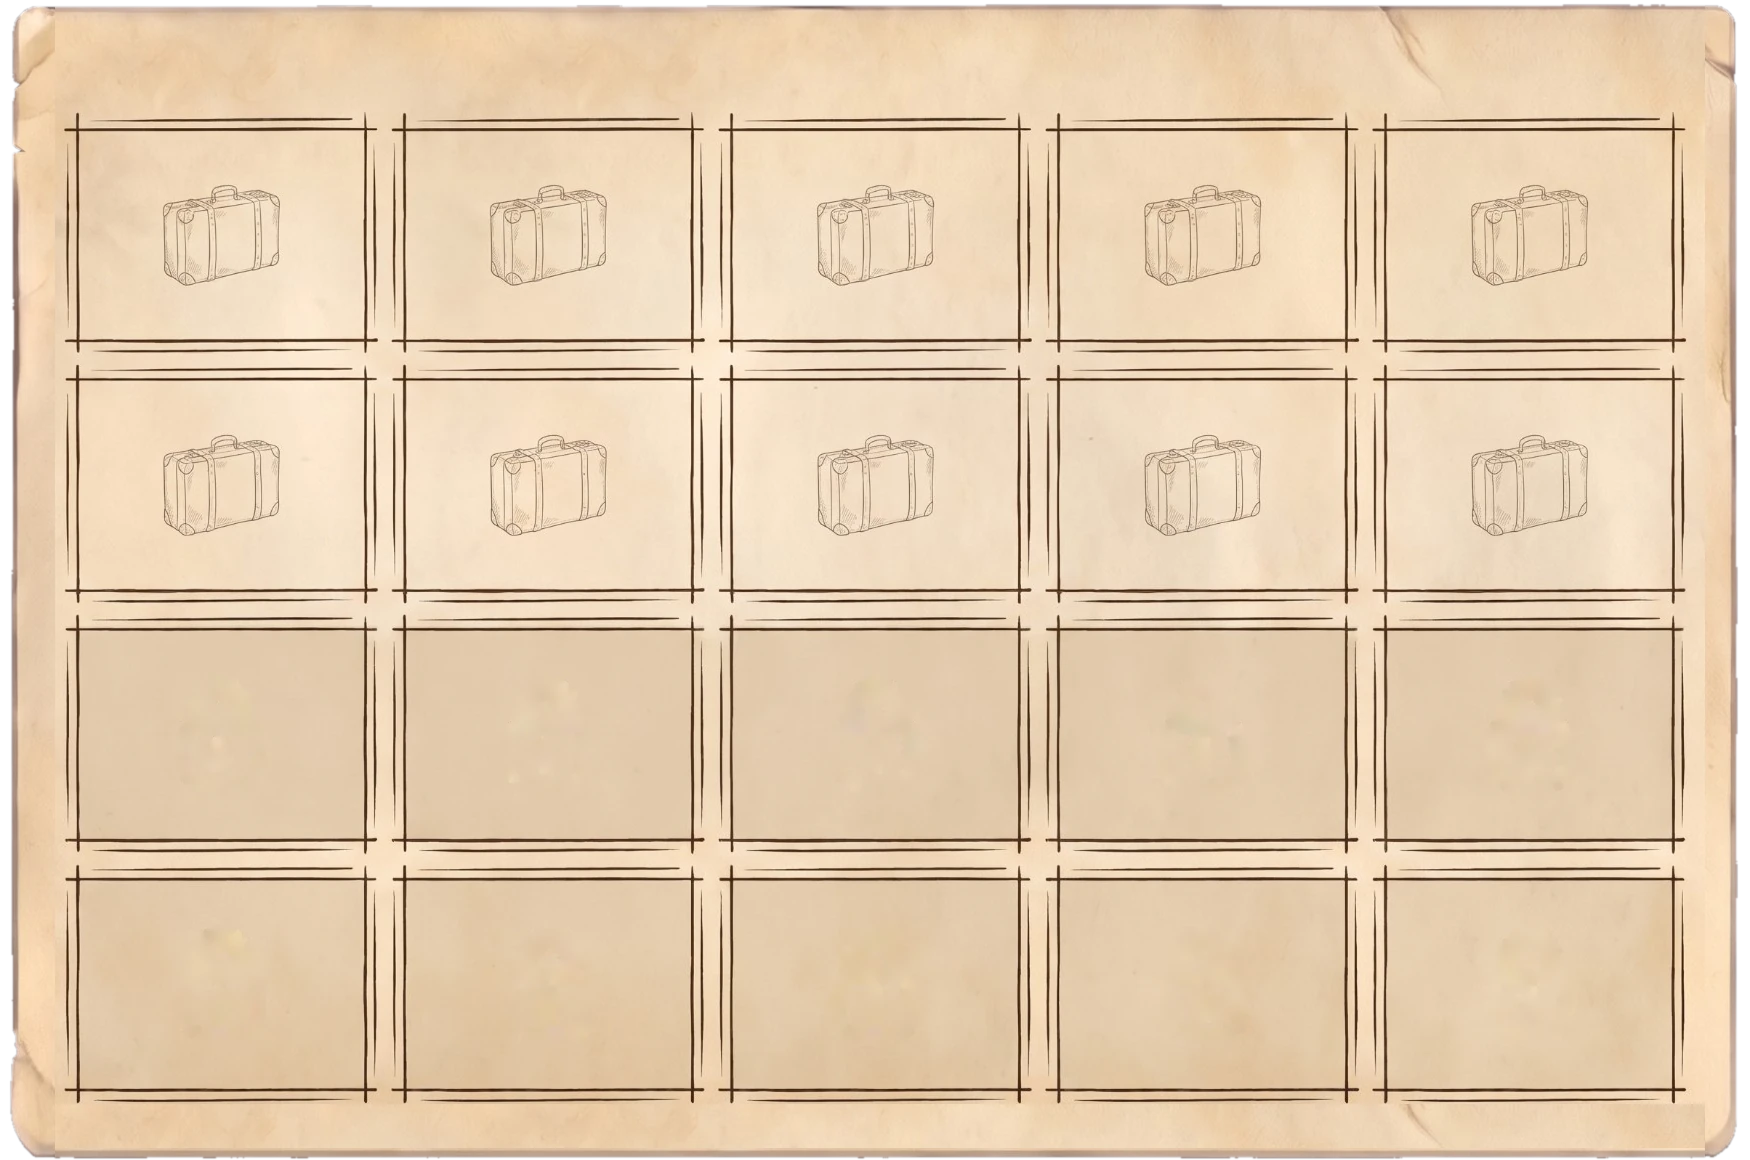
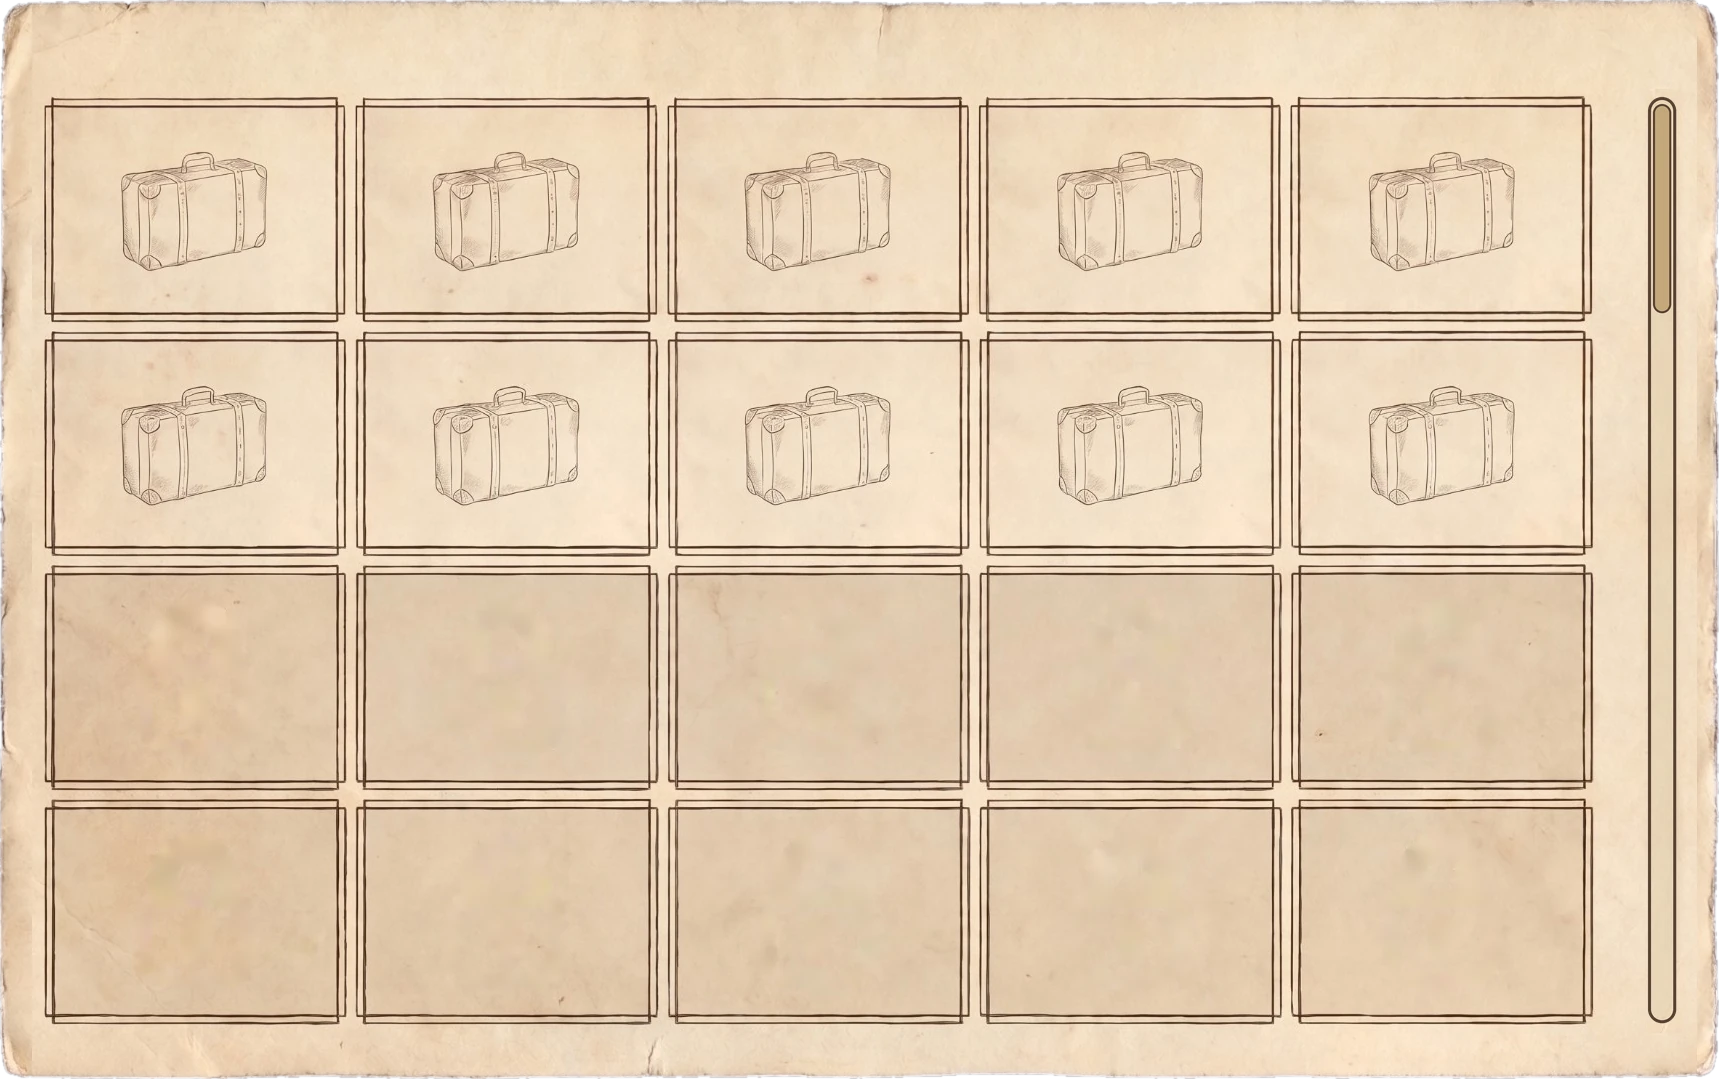
feat: Mala v2 com molduras coladas, barra de scroll fina e cadeado que abre no novo tamanho (R-UI-18)

Changed region(s): [[0.0, 0.0, 1.0, 1.0]]

diff --git a/src/web/style.css b/src/web/style.css
@@ -4515,18 +4515,18 @@ html[data-ui="v2"] #app[data-tab="perfil"] .stack { row-gap: 1.3rem; }
 /* ================================================================================================ */
 /* SEÇÃO C (MALA) COM A FOLHA DE 20 MOLDURAS (R-UI-18): malinha fraca nos vazios; cadeado fechado nos bloqueados, que abre ao passar o mouse */
 /* ================================================================================================ */
-html[data-ui="v2"] #app[data-tab="perfil"] .inventory-slots-grid { position: relative; isolation: isolate; box-sizing: border-box; aspect-ratio: 1750 / 1160; height: auto; padding: 2.94rem 1.65rem 1.44rem 1.7rem; background: none; border: 0; border-radius: 0; grid-template-columns: repeat(5, 1fr); grid-template-rows: repeat(4, 1fr); grid-auto-rows: auto; column-gap: 0.37rem; row-gap: 0.32rem; }
+html[data-ui="v2"] #app[data-tab="perfil"] .inventory-slots-grid { position: relative; isolation: isolate; box-sizing: border-box; aspect-ratio: 1719 / 1079; height: auto; padding: 2.6rem 3.36rem 1.42rem 1.29rem; background: none; border: 0; border-radius: 0; grid-template-columns: repeat(5, 1fr); grid-template-rows: repeat(4, 1fr); grid-auto-rows: auto; column-gap: 0.34rem; row-gap: 0.34rem; }
 html[data-ui="v2"] #app[data-tab="perfil"] .inventory-slots-grid::after { content: ""; position: absolute; inset: 0; z-index: -1; pointer-events: none; background: url("/assets/ficha/c-mala.webp") 0 0 / 100% 100% no-repeat; filter: drop-shadow(0 0.25rem 0.45rem rgba(0, 0, 0, 0.5)); }
-html[data-ui="v2"] #app[data-tab="perfil"] .inventory-slots-grid::before { position: absolute; top: 0.85rem; left: 1.7rem; grid-column: auto; padding: 0; border: 0; color: #3a2a14; }
+html[data-ui="v2"] #app[data-tab="perfil"] .inventory-slots-grid::before { position: absolute; top: 0.8rem; left: 1.35rem; grid-column: auto; padding: 0; border: 0; color: #3a2a14; }
 html[data-ui="v2"] #app[data-tab="perfil"] .inv-slot { position: relative; aspect-ratio: auto; height: auto; background: none; border: 0; border-radius: 0; outline: 0; padding: 0.4rem 0.45rem; box-shadow: none; }
 html[data-ui="v2"] #app[data-tab="perfil"] .inv-slot.empty::after { display: none; }
 /* item na Mala: um retalho de papel cobre a malinha desenhada */
 html[data-ui="v2"] #app[data-tab="perfil"] .inv-slot[data-inv-idx]::before { content: ""; position: absolute; inset: 6% 5.5%; background: #efe2c4; }
 html[data-ui="v2"] #app[data-tab="perfil"] .inv-slot[data-inv-idx] > * { position: relative; }
 /* cadeado fechado (desenhado em sprite) e, ao passar o mouse, o aberto */
-html[data-ui="v2"] #app[data-tab="perfil"] .inv-slot.locked { cursor: pointer; background: url("/assets/ficha/c-cadeado-fechado.webp") 50.2% 50.4% / 26.6% 47.48% no-repeat; }
+html[data-ui="v2"] #app[data-tab="perfil"] .inv-slot.locked { cursor: pointer; background: url("/assets/ficha/c-cadeado-fechado.webp") 49.7% 47.1% / 38.38% 68.47% no-repeat; }
 html[data-ui="v2"] #app[data-tab="perfil"] .inv-slot.locked .ico { display: none; }
-html[data-ui="v2"] #app[data-tab="perfil"] .inv-slot.locked::before { content: ""; position: absolute; left: 36.86%; top: 23.95%; width: 26.6%; height: 50%; background: url("/assets/ficha/c-cadeado-aberto.webp") 0 0 / 100% 100% no-repeat; opacity: 0; pointer-events: none; transform-origin: 50% 92%; }
+html[data-ui="v2"] #app[data-tab="perfil"] .inv-slot.locked::before { content: ""; position: absolute; left: 30.64%; top: 9.91%; width: 38.38%; height: 73.42%; background: url("/assets/ficha/c-cadeado-aberto.webp") 0 0 / 100% 100% no-repeat; opacity: 0; pointer-events: none; transform-origin: 50% 92%; }
 html[data-ui="v2"] #app[data-tab="perfil"] .inv-slot.locked:not(.locked-soon):hover, html[data-ui="v2"] #app[data-tab="perfil"] .inv-slot.locked:not(.locked-soon):focus-visible { background-image: none; outline: none; }
 html[data-ui="v2"] #app[data-tab="perfil"] .inv-slot.locked:not(.locked-soon):hover::before, html[data-ui="v2"] #app[data-tab="perfil"] .inv-slot.locked:not(.locked-soon):focus-visible::before { opacity: 1; filter: drop-shadow(0 0 0.35rem rgba(212, 175, 55, 0.9)); animation: lock-pop 0.35s ease-out; }
 @keyframes lock-pop { 0% { transform: scale(0.9) rotate(-4deg); } 60% { transform: scale(1.1) rotate(3deg); } 100% { transform: scale(1) rotate(0); } }

diff --git a/tests/unit/fichaNova.test.ts b/tests/unit/fichaNova.test.ts
@@ -223,9 +223,9 @@ describe('Ficha nova em teste (R-FICHA-ARTE-1)', () => {
 
   it('seção C (Mala) com a folha de 20 molduras e o cadeado que abre ao passar o mouse (R-UI-18)', () => {
     for (const n of ['c-mala', 'c-cadeado-fechado', 'c-cadeado-aberto']) expect(existsSync(`public/assets/ficha/${n}.webp`)).toBe(true);
-    expect(css).toMatch(/#app\[data-tab="perfil"\] \.inventory-slots-grid \{ position: relative; isolation: isolate; box-sizing: border-box; aspect-ratio: 1750 \/ 1160;/);
+    expect(css).toMatch(/#app\[data-tab="perfil"\] \.inventory-slots-grid \{ position: relative; isolation: isolate; box-sizing: border-box; aspect-ratio: 1719 \/ 1079;/);
     expect(css).toMatch(/\.inventory-slots-grid::after \{ content: ""; position: absolute; inset: 0; z-index: -1; pointer-events: none; background: url\("\/assets\/ficha\/c-mala\.webp"\)/);
-    expect(css).toMatch(/\.inv-slot\.locked::before \{ content: ""; position: absolute; left: 36\.86%; top: 23\.95%; width: 26\.6%; height: 50%; background: url\("\/assets\/ficha\/c-cadeado-aberto\.webp"\)/);
+    expect(css).toMatch(/\.inv-slot\.locked::before \{ content: ""; position: absolute; left: 30\.64%; top: 9\.91%; width: 38\.38%; height: 73\.42%; background: url\("\/assets\/ficha\/c-cadeado-aberto\.webp"\)/);
     expect(css).toMatch(/\.inv-slot\.empty::after \{ display: none; \}/);
     expect(css).toContain('@keyframes lock-pop');
   });

diff --git a/tools/secaoMala2_recorte.py b/tools/secaoMala2_recorte.py
@@ -1,0 +1,98 @@
+# Folha da Mala v2 (arte da IA, molduras coladas): tira os cadeados e a barra de scroll desenhada (o scroll e o cadeado viram peças em código),
+# corta margens laterais, fundo transparente, sprites dos cadeados (fechado e aberto). (R-UI-19)
+# Uso: python -I tools/secaoMala2_recorte.py        Entrada: docs/arte/secaoMala/v2.jpg
+import numpy as np
+from PIL import Image
+from scipy import ndimage as ndi
+from skimage.restoration import inpaint_biharmonic
+
+A = np.array(Image.open("docs/arte/secaoMala/v2.jpg").convert("RGB")).astype(float)
+H, W, _ = A.shape
+X0S = [197, 507, 818, 1130, 1442]
+FW = 297
+Y0S = [116, 350, 585, 820]
+FH = 222
+
+clean = A.copy()
+meta = None
+sprite_closed = None
+for r in (2, 3):
+    for c in range(5):
+        x0, y0 = X0S[c], Y0S[r]
+        cx, cy = x0 + FW // 2, y0 + FH // 2
+        tone = np.median(A[y0 + 20:y0 + 48, x0 + 20:x0 + FW - 20].reshape(-1, 3), axis=0)
+        reg = (slice(cy - 95, cy + 80), slice(cx - 80, cx + 80))
+        dark = ndi.binary_dilation(A[reg].mean(axis=2) < tone.mean() - 40, iterations=7)
+        if r == 2 and c == 2:
+            # sprite do cadeado fechado (o do meio da 1ª fileira de cadeados), com a tinta como alfa
+            sub = A[reg]
+            alpha = np.clip((tone.mean() - sub.mean(axis=2)) / (tone.mean() - 55), 0, 1)
+            alpha[alpha < 0.08] = 0
+            ys, xs = np.where(alpha > 0.15)
+            ya, yb, xa, xb = ys.min() - 3, ys.max() + 4, xs.min() - 3, xs.max() + 4
+            ink = np.array([0.26, 0.19, 0.14]) * 255
+            rgba = np.dstack([np.broadcast_to(ink, sub.shape[:2] + (3,)), alpha * 255])[ya:yb, xa:xb].astype(np.uint8)
+            sprite_closed = Image.fromarray(rgba, "RGBA")
+            px0, py0 = cx - 80 + xa, cy - 95 + ya
+            meta = ((px0 - x0) / FW * 100, (py0 - y0) / FH * 100, (xb - xa) / FW * 100, (yb - ya) / FH * 100, py0 + (yb - ya))
+        clean[reg] = inpaint_biharmonic(clean[reg] / 255.0, dark, channel_axis=-1) * 255.0
+
+sprite_closed.save("public/assets/ficha/c-cadeado-fechado.webp", "WEBP", quality=92, method=6)
+# cadeado aberto aprovado (do meio da 1ª fileira de cadeados da 1ª versão), escalado para o corpo do novo cadeado
+old_closed = Image.open("docs/arte/secaoMala/sprite_fechado_v1.png")
+old_open = Image.open("docs/arte/secaoMala/sprite_aberto_v1.png")
+k = sprite_closed.width / old_closed.width
+op = old_open.resize((round(old_open.width * k), round(old_open.height * k)), Image.LANCZOS)
+op.save("public/assets/ficha/c-cadeado-aberto.webp", "WEBP", quality=92, method=6)
+print("sprite fechado", sprite_closed.size, "aberto", op.size, "escala", round(k, 3))
+mx, my, mw, mh, base = meta
+ox = mx
+oy = (base - op.height - Y0S[2]) / FH * 100
+print("fechado: left %.2f%% top %.2f%% w %.2f%% h %.2f%%" % (mx, my, mw, mh))
+print("aberto : left %.2f%% top %.2f%% w %.2f%% h %.2f%%" % (ox, oy, op.width / FW * 100, op.height / FH * 100))
+
+# barra de scroll desenhada pela IA: some; copia papel liso da margem direita
+rx0, rx1, ry0, ry1 = 1786, 1834, 106, 1050
+w = rx1 - rx0
+strip = clean[ry0:ry1, 1856:1856 + w]
+ramp = np.minimum(np.minimum(np.arange(w), w - 1 - np.arange(w)) / 8.0, 1)[None, :, None]
+clean[ry0:ry1, rx0:rx1] = strip * ramp + clean[ry0:ry1, rx0:rx1] * (1 - ramp)
+
+# barra de scroll nova: trilho fino e reto, com o mesmo traço das molduras e uma alça no topo (a alça é só desenho por enquanto)
+from PIL import ImageDraw
+SS = 4
+lay = Image.new("RGBA", ((rx1 - rx0) * SS, (ry1 - ry0) * SS), (0, 0, 0, 0))
+dr = ImageDraw.Draw(lay)
+inkc = (84, 62, 48, 255)
+tx0, tx1 = (1796 - rx0) * SS, (1824 - rx0) * SS
+ty0, ty1 = (114 - ry0) * SS, (1040 - ry0) * SS
+dr.rounded_rectangle([tx0, ty0, tx1, ty1], radius=14 * SS, outline=inkc, width=3 * SS, fill=(222, 204, 170, 120))
+hx0, hx1 = (1801 - rx0) * SS, (1819 - rx0) * SS
+dr.rounded_rectangle([hx0, (121 - ry0) * SS, hx1, (330 - ry0) * SS], radius=9 * SS, outline=inkc, width=2 * SS, fill=(196, 168, 122, 255))
+lay = lay.resize((rx1 - rx0, ry1 - ry0), Image.LANCZOS)
+base_img = Image.fromarray(np.clip(clean, 0, 255).astype(np.uint8)).convert("RGBA")
+base_img.alpha_composite(lay, (rx0, ry0))
+clean = np.array(base_img.convert("RGB")).astype(float)
+
+# margens laterais
+img = np.hstack([clean[:, :100], clean[:, 180:1845], clean[:, 1915:]])
+Lp = img.mean(axis=2)
+paper = ndi.binary_fill_holes(ndi.binary_opening(Lp > 70, iterations=2))
+lab, n = ndi.label(paper)
+paper = lab == (1 + int(np.argmax(ndi.sum(paper, lab, range(1, n + 1)))))
+paper = ndi.binary_erosion(paper, iterations=1)
+ys, xs = np.where(paper)
+cx0, cx1, cy0, cy1 = xs.min(), xs.max() + 1, ys.min(), ys.max() + 1
+alpha = np.clip(ndi.gaussian_filter(paper.astype(float), 0.8), 0, 1)
+rgba = np.dstack([np.clip(img, 0, 255).astype(np.uint8), (alpha * 255).astype(np.uint8)])[cy0:cy1, cx0:cx1]
+Image.fromarray(rgba, "RGBA").save("public/assets/ficha/c-mala.webp", "WEBP", quality=90, method=6)
+Image.fromarray(np.clip(img, 0, 255).astype(np.uint8)[cy0:cy1, cx0:cx1]).save("docs/arte/secaoMala/ajustada_v2.png")
+sw, sh = cx1 - cx0, cy1 - cy0
+print("folha", sw, sh, "proporção", round(sw / sh, 3))
+
+def nx(x):  # x original -> x% na folha nova
+    return ((x - 80 if x >= 180 else x) - cx0) / sw * 100
+
+for r in range(4):
+    print("linha", r + 1, "y %.2f%% h %.2f%%" % ((Y0S[r] - cy0) / sh * 100, FH / sh * 100), "colunas x%:", ["%.2f" % nx(x) for x in X0S], "w %.2f%%" % (FW / sw * 100))
+print("barra: x %.2f%% a %.2f%%, y %.2f%% a %.2f%%" % (nx(1795), nx(1825), (114 - cy0) / sh * 100, (1040 - cy0) / sh * 100))

diff --git a/docs/REGRAS_DO_JOGO.md b/docs/REGRAS_DO_JOGO.md
@@ -136,7 +136,7 @@ Observação: com 7 minutos por ponto, uma missão de 15 energia custa 1h45 de e
 | R-UI-15 | **Identidade visual da Ficha: "folhas"** | A identidade visual da Ficha é de **folhas de papel envelhecido** (não couro, não fichas/cards). A imagem escolhida (`docs/arte/folha_original.jpg`) é **só a referência de identidade**: **não é o fundo da Ficha**. A arte final da Ficha será gerada pelo fundador a partir dessa identidade, com **apenas a marcação dos lugares dos itens** (equipamento e arma) na folha; o resto é design. **Ainda não aplicada no jogo** (a Ficha segue com os painéis escuros sobre a imagem de Chicago). Decidido pelo fundador em 2026-11-13. | `docs/arte/folha_original.jpg`, `docs/PROMPT_FICHA_IA.md` (v4) | - (sem código) |
 | R-UI-16 | **Seção A da Ficha com a arte de folhas** | O **retrato** (folhas empilhadas com clipe), a **nota do nome com a aba da família**, a **placa de classe e defesa**, a **folha da arma** e o **cartão dos atributos** usam a arte gerada pela IA e escolhida pelo fundador em 2026-11-13 (`public/assets/ficha/a-*.webp`, recortadas de `docs/arte/secaoA/ajustada.png` por `tools/secaoA_recortes.py`). A arte só dá a forma; **todo texto, número, foto e item continuam em código**, nos mesmos tamanhos de antes. A nota fica **atrás** do retrato. O restante da Ficha (equipamento, Mala, área de duelo, barra de abas) **ainda não** usa a identidade de folhas. | `src/web/style.css` (bloco R-UI-16), `public/assets/ficha/a-*.webp` | `tests/unit/fichaNova.test.ts` |
 | R-UI-17 | **Seção B (Equipamento) com a folha de 8 molduras** | O painel de **Equipamento** é uma **folha de papel** gerada por IA e escolhida pelo fundador em 2026-11-13 (`public/assets/ficha/b-equipamento.webp`, preparada por `tools/secaoB_recorte.py`: fundo transparente e faixas de papel liso cortadas para a proporção do painel, sem tocar nas molduras). Tem **8 molduras de tinta** (4 colunas x 2 linhas) com o **desenho fantasma de cada item** (chapéu, colete, calça, calçado, trevo, gato, anel, carro). O código só escreve o título (com respiro em cima e embaixo) e põe o item equipado; **os slots não mostram o nome do tipo de item** (o desenho fantasma já diz qual é); o **item equipado cobre o desenho fantasma com um retalho de papel**. As molduras da arte têm proporção ~1,30:1 (quase 4:3). O painel tem a **proporção exata da folha (2000:927), sem esticar**, e o espaço a mais vem da seção de baixo (vão de 1,3 rem entre as duas fileiras). | `src/web/style.css` (bloco R-UI-17), `public/assets/ficha/b-equipamento.webp` | `tests/unit/fichaNova.test.ts` |
-| R-UI-18 | **Seção C (Mala) com a folha de 20 molduras** | A **Mala** é uma folha de papel gerada por IA e aprovada pelo fundador em 2026-11-13 (`public/assets/ficha/c-mala.webp`, preparada por `tools/secaoMala_recorte.py`: fundo transparente, margens laterais lisas cortadas para a proporção do painel e **mais respiro embaixo**, sem tocar nas molduras). São **20 molduras em 5 x 4**, 4:3. Os **10 slots vazios** têm uma **malinha desenhada** bem fraca, **sem o texto "VAZIO"**; o **item cobre a malinha com um retalho de papel**. Os **slots bloqueados** mostram um **cadeado fechado** (sprite `c-cadeado-fechado.webp`) que, **ao passar o mouse**, **troca pelo cadeado aberto** (sprite `c-cadeado-aberto.webp`, o do meio da 1ª fileira de cadeados) com um pequeno brilho dourado e uma saltinho; a dica "Mala maior" continua. A 4ª fileira ("em breve") só mostra o cadeado, sem efeito. | `src/web/style.css` (bloco R-UI-18), `public/assets/ficha/c-*.webp` | `tests/unit/fichaNova.test.ts` |
+| R-UI-18 | **Seção C (Mala) com a folha de 20 molduras** | A **Mala** é uma folha de papel gerada por IA e aprovada pelo fundador em 2026-11-13 (`public/assets/ficha/c-mala.webp`, preparada por `tools/secaoMala_recorte.py`: fundo transparente, margens laterais lisas cortadas para a proporção do painel e **mais respiro embaixo**, sem tocar nas molduras). São **20 molduras em 5 x 4**, 4:3, **coladas** (vão de ~0,3 rem), com as linhas dos cantos curtas, e uma **barra de scroll fina e reta** desenhada à direita (hoje só desenho: o scroll funcional entra quando houver mais de 20 slots). A folha tem proporção 1,59:1, sem esticar. Os **10 slots vazios** têm uma **malinha desenhada** bem fraca, **sem o texto "VAZIO"**; o **item cobre a malinha com um retalho de papel**. Os **slots bloqueados** mostram um **cadeado fechado** (sprite `c-cadeado-fechado.webp`) que, **ao passar o mouse**, **troca pelo cadeado aberto** (sprite `c-cadeado-aberto.webp`, o do meio da 1ª fileira de cadeados) com um pequeno brilho dourado e uma saltinho; a dica "Mala maior" continua. A 4ª fileira ("em breve") só mostra o cadeado, sem efeito. | `src/web/style.css` (bloco R-UI-18), `public/assets/ficha/c-*.webp` | `tests/unit/fichaNova.test.ts` |
 | R-MALA-11 | **Mala com 4 fileiras desenhadas (a 4ª ainda é só desenho)** | No Estilo 2 a Mala mostra 20 slots (5 x 4): 10 liberados, a fileira 3 trancada (comprável, como em R-MALA-10) e a fileira 4 trancada **só como desenho**, sem compra, porque o máximo real continua 15 e o preço de uma 2ª "mala maior" não foi definido. A área livre do equipamento de duelo tem a mesma altura da Mala (mesma altura da Mala, que tem slots 4:3 e título MALA e painel que tem o mesmo fundo e borda do Equipamento) | **Fundador, 2026-11-12** | `main.ts` (`BAG_DISPLAY_SLOTS`), `style.css` | `fichaNova.test.ts` |
 | R-OURO-3 | **Teto de ouro conferido pelo servidor** | O servidor recusa um save com ouro acima de 25 + 125 por nível acima do 1 + 30 por missão cumprida (o máximo que o jogo pode ter dado). Gastar sempre é aceito | Claude, 2026-11-11 | `src/shared/gold.ts` (`goldCap`), `rules.ts` (`validateSave`) | `gold.test.ts`, `server.test.ts` ("ouro acima do inicial é recusado") |
 | R-OURO-4 | **Compra de ouro com dinheiro real** | Vai existir, mas **ainda não será feita** (depende do pagamento, E-etapas). Quando existir, o teto de R-OURO-3 muda | **Fundador, 2026-11-11** | — (não implementado) | — |
